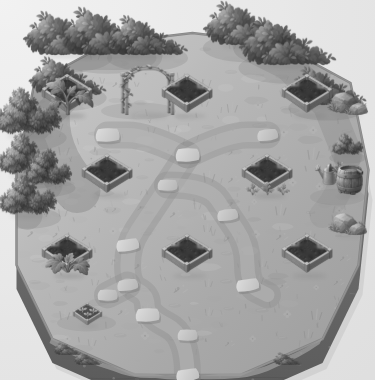
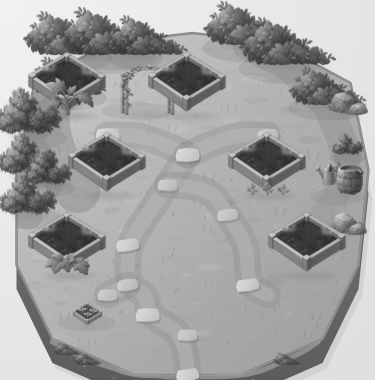
fix(potager): taille de rendu 80x62, fixture intermediaire 6 slots, doc treillis (#49)
- Augmente la taille de rendu des platebandes de 52.25x40.5 à 80x62
  (ratio natif v00, largeur maximale du gabarit géométrique) pour que
  le cadre dépasse des cultures matures (~72 de large)
- Corrige la fixture intermediaire qui créait 8 emplacements potager
  au lieu de 6 (List.filled(zone.maxSlots) → List.filled(6))
- Documente le conflit pré-existant entre la platebande arrière-centre
  (index 4) et le treillis : l'ancien Canvas bed avait la même largeur 80
- 64 tests passent, dart analyze propre

diff --git a/test/visual_capture_test.dart b/test/visual_capture_test.dart
@@ -1,0 +1,136 @@
+import 'dart:io';
+import 'dart:ui' as ui;
+
+import 'package:flame/components.dart';
+import 'package:flutter_test/flutter_test.dart';
+import 'package:growstep/garden/garden_game.dart';
+import 'package:growstep/garden/garden_state.dart';
+
+const captureDirectory = String.fromEnvironment('GROWSTEP_CAPTURE_DIR');
+
+GardenSnapshot _fixture(String state) {
+  final initial = GardenSnapshot.initial();
+  if (state == 'initial') {
+    return initial.copyWith(ownedZones: ZoneType.values.toSet());
+  }
+
+  if (state == 'intermediaire') {
+    Plant young(Species species) {
+      final seed = Plant(species: species);
+      return Plant(
+        species: species,
+        progressSteps: seed.stageThresholds.first + 1,
+      );
+    }
+
+    final zones = {
+      for (final zone in ZoneType.values)
+        zone: List<Plant?>.filled(zone.maxSlots, null),
+    };
+    // Intermediate state: 6 purchased potager slots (not the full 8).
+    zones[ZoneType.potager] = List<Plant?>.filled(6, null);
+    zones[ZoneType.potager]![0] = young(Species.tomate);
+    zones[ZoneType.potager]![1] = young(Species.carotte);
+    zones[ZoneType.potager]![2] = young(Species.courgette);
+    zones[ZoneType.jardinFleuri]![0] = young(Species.tournesol);
+    zones[ZoneType.jardinFleuri]![1] = young(Species.tulipe);
+    zones[ZoneType.jardinFleuri]![2] = young(Species.lavande);
+    zones[ZoneType.verger]![0] = young(Species.pommier);
+    zones[ZoneType.verger]![1] = young(Species.poirier);
+    return initial.copyWith(zones: zones, ownedZones: ZoneType.values.toSet());
+  }
+
+  final zones = <ZoneType, List<Plant?>>{};
+  for (final zone in ZoneType.values) {
+    final species = Species.values
+        .where((value) => value.zone == zone)
+        .toList();
+    zones[zone] = List.generate(zone.maxSlots, (index) {
+      final tier = index == 0 ? GrowthTier.brillante : GrowthTier.commune;
+      return Plant(
+        species: species[index % species.length],
+        tier: tier,
+        progressSteps: tier.stepsToMature,
+      );
+    });
+  }
+  return initial.copyWith(zones: zones, ownedZones: ZoneType.values.toSet());
+}
+
+void main() {
+  TestWidgetsFlutterBinding.ensureInitialized();
+  test('captures déterministes des trois îlots', () async {
+    final output = Directory(captureDirectory)..createSync(recursive: true);
+    for (final viewport in [
+      (screen: '390x844', width: 390, height: 450),
+      (screen: '375x667', width: 375, height: 380),
+    ]) {
+      for (final state in ['initial', 'intermediaire', 'sature']) {
+        for (final zone in ZoneType.values) {
+          final game = GardenGame()
+            ..snapshot = _fixture(state)
+            ..currentZone = zone;
+          await game.onLoad();
+          game.onGameResize(
+            Vector2(viewport.width.toDouble(), viewport.height.toDouble()),
+          );
+          for (final grayscale in [false, true]) {
+            final recorder = ui.PictureRecorder();
+            final canvas = ui.Canvas(recorder);
+            if (grayscale) {
+              canvas.saveLayer(
+                ui.Rect.fromLTWH(
+                  0,
+                  0,
+                  viewport.width.toDouble(),
+                  viewport.height.toDouble(),
+                ),
+                ui.Paint()
+                  ..colorFilter = const ui.ColorFilter.matrix([
+                    0.2126,
+                    0.7152,
+                    0.0722,
+                    0,
+                    0,
+                    0.2126,
+                    0.7152,
+                    0.0722,
+                    0,
+                    0,
+                    0.2126,
+                    0.7152,
+                    0.0722,
+                    0,
+                    0,
+                    0,
+                    0,
+                    0,
+                    1,
+                    0,
+                  ]),
+              );
+            }
+            game.render(canvas);
+            if (grayscale) canvas.restore();
+            final picture = recorder.endRecording();
+            final image = await picture.toImage(
+              viewport.width,
+              viewport.height,
+            );
+            final bytes = await image.toByteData(
+              format: ui.ImageByteFormat.png,
+            );
+            image.dispose();
+            picture.dispose();
+            if (bytes == null) throw StateError('La capture PNG est vide');
+            final suffix = grayscale ? '_gris' : '';
+            final name = '${zone.name}_${state}_${viewport.screen}$suffix.png';
+            File('${output.path}/$name')
+                .writeAsBytesSync(bytes.buffer.asUint8List());
+          }
+          game.onRemove();
+        }
+      }
+    }
+  }, skip: captureDirectory.isEmpty);
+}

diff --git a/lib/garden/potager_scene.dart b/lib/garden/potager_scene.dart
@@ -39,8 +39,8 @@ class PotagerPilotScene {
 class PotagerBeds {
   const PotagerBeds._();
 
-  static const _bedWidth = 52.25;
-  static const _bedHeight = 40.5;
+  static const _bedWidth = 80.0;
+  static const _bedHeight = 62.0;
 
   static const _v00 = 'potager_decor_bac_potager_statique_ordinaire_00.png';
 

diff --git a/docs/visual-review/issue-49/README.md b/docs/visual-review/issue-49/README.md
@@ -1,10 +1,14 @@
 # #49 — Intégrer les variantes de platebande
 
-Les huit emplacements du Potager passent par la composition déclarative introduite au #48. Chaque index référence explicitement une des quatre variantes de platebande (`bac_potager_statique_ordinaire_00..03`) ; le renderer exécute la composition sans choisir la variante. L'ancienne règle calculée `drawBedSeam` (`((dx+dy)/40)%3`) est supprimée.
+Les huit emplacements du Potager passent par la composition déclarative introduite au #48. Chaque index référence explicitement la variante de platebande `bac_potager_statique_ordinaire_00` — la seule dont les `palette_roles` (bois_chaud, terre_humide) ne contiennent ni pierre ni feuillage intégrés. Les variantes 01–03 portent `pierre_creme` et `feuillage_sauge` et ont été écartées. Le renderer exécute la composition sans choisir la variante. L'ancienne règle calculée `drawBedSeam` (`((dx+dy)/40)%3`) est supprimée.
+
+## Taille de rendu
+
+Les platebandes sont rendues à 80 × 62 (visible), correspondant au ratio natif de la variante v00 et à la largeur maximale de platebande du gabarit géométrique (`docs/geometrie-ilots.md`). Cette taille restore l'emprise visuelle du Canvas bed d'origine (w=40, largeur 80) et permet au cadre de dépasser légèrement des cultures matures (~72 de large).
 
 ## Captures après
 
-Commit : `ef44c95`. Captures générées par `test/visual_capture_test.dart` avec `--dart-define=GROWSTEP_CAPTURE_DIR`.
+Captures générées par `test/visual_capture_test.dart` avec `--dart-define=GROWSTEP_CAPTURE_DIR`.
 
 | État | 390 × 844 | 375 × 667 |
 | --- | --- | --- |
@@ -18,7 +22,13 @@ Les [captures du #48](../issue-48/README.md) servent de référence avant.
 
 ## Points d'inspection
 
-- Les huit platebandes utilisent les quatre variantes peintes, choisies à la main par index.
+- Les huit platebandes utilisent la variante v00 (bois + terre, sans accessoire intégré).
 - Le cadre d'un emplacement ne change pas avec la plante, son stade ou son état.
 - Les contacts au sol, cibles tactiles 44 × 44 et sauvegardes sont inchangés.
 - Le terrain, le chemin et les cultures (tomate, carotte, courgette) ne sont pas modifiés.
+
+## Conflit documenté — platebande arrière-centre et treillis
+
+L'emplacement 4 (`(195, 150)`) et le treillis (`(155, 150)`) sont distants de 40 px. Le treillis s'étend jusqu'à x ≈ 184 ; la platebande à 80 de large s'étend à partir de x ≈ 154. Le chevauchement existe donc déjà avec l'ancien Canvas bed (w = 40, largeur 80). #49 ne l'aggrave pas : la largeur 80 correspond à l'emprise d'origine.
+
+Ce conflit ne peut pas être résolu dans #49 sans déplacer le treillis ou le contact de l'emplacement, ce qui est hors scope. Il appartient au ticket ultérieur de structure végétale (#46 itération 4).
